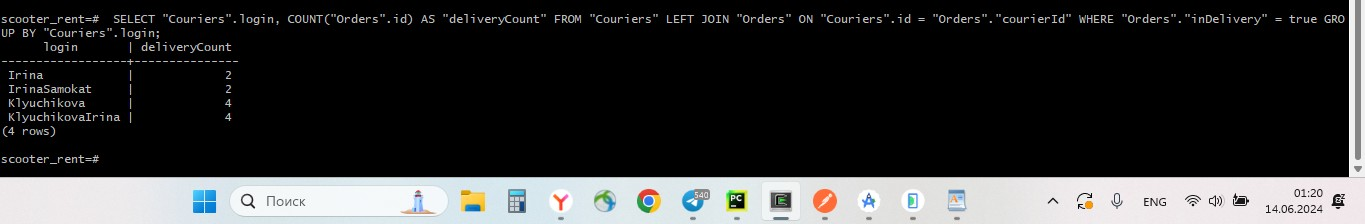
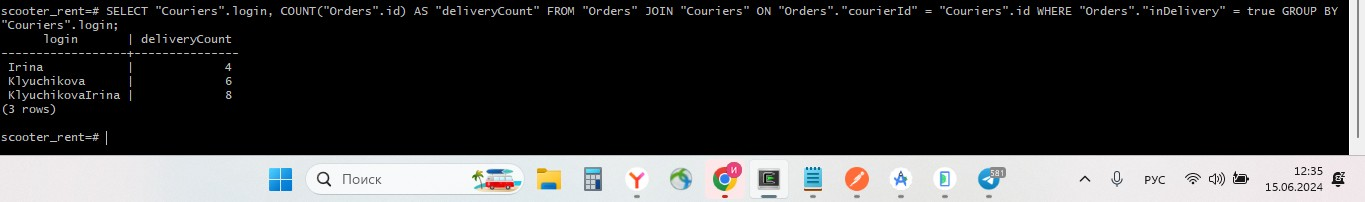
fix 1 task and readme
исправлен sql запрос в 1 задании
добавлено описание пакетов и команд в readme

diff --git a/README.md b/README.md
@@ -1,6 +1,6 @@
-## Автоматизация теста к API
+# Автоматизация теста к API
 
-
+## задание
 > 1. Выполнить запрос на создание заказа.
 
 > 2. Сохранить номер трека заказа.
@@ -9,10 +9,23 @@
 
 > 4. Проверить, что код ответа равен 200.
 
+## результат
 
 ![N](https://skrinshoter.ru/s/130624/JkEubliv.jpg?download=1&name=%D0%A1%D0%BA%D1%80%D0%B8%D0%BD%D1%88%D0%BE%D1%82-13-06-2024%2022:59:07.jpg)
 
 - Клиент создает заказ.
 - Проверяется, что по треку заказа можно получить данные о заказе.
+
+## необходимые пакеты и команды
+### пакеты
+```python
+pip install requests #модуль выполнения HTTP-запросов
+pip install pytest #фреймворк для тестирования
+```
+### команды
+```python
+pytest .\create_and_get_order_test.py
+```
+
 
 Автор - [Ключикова Ирина, 17 когорта](https://vk.com/idd188)
